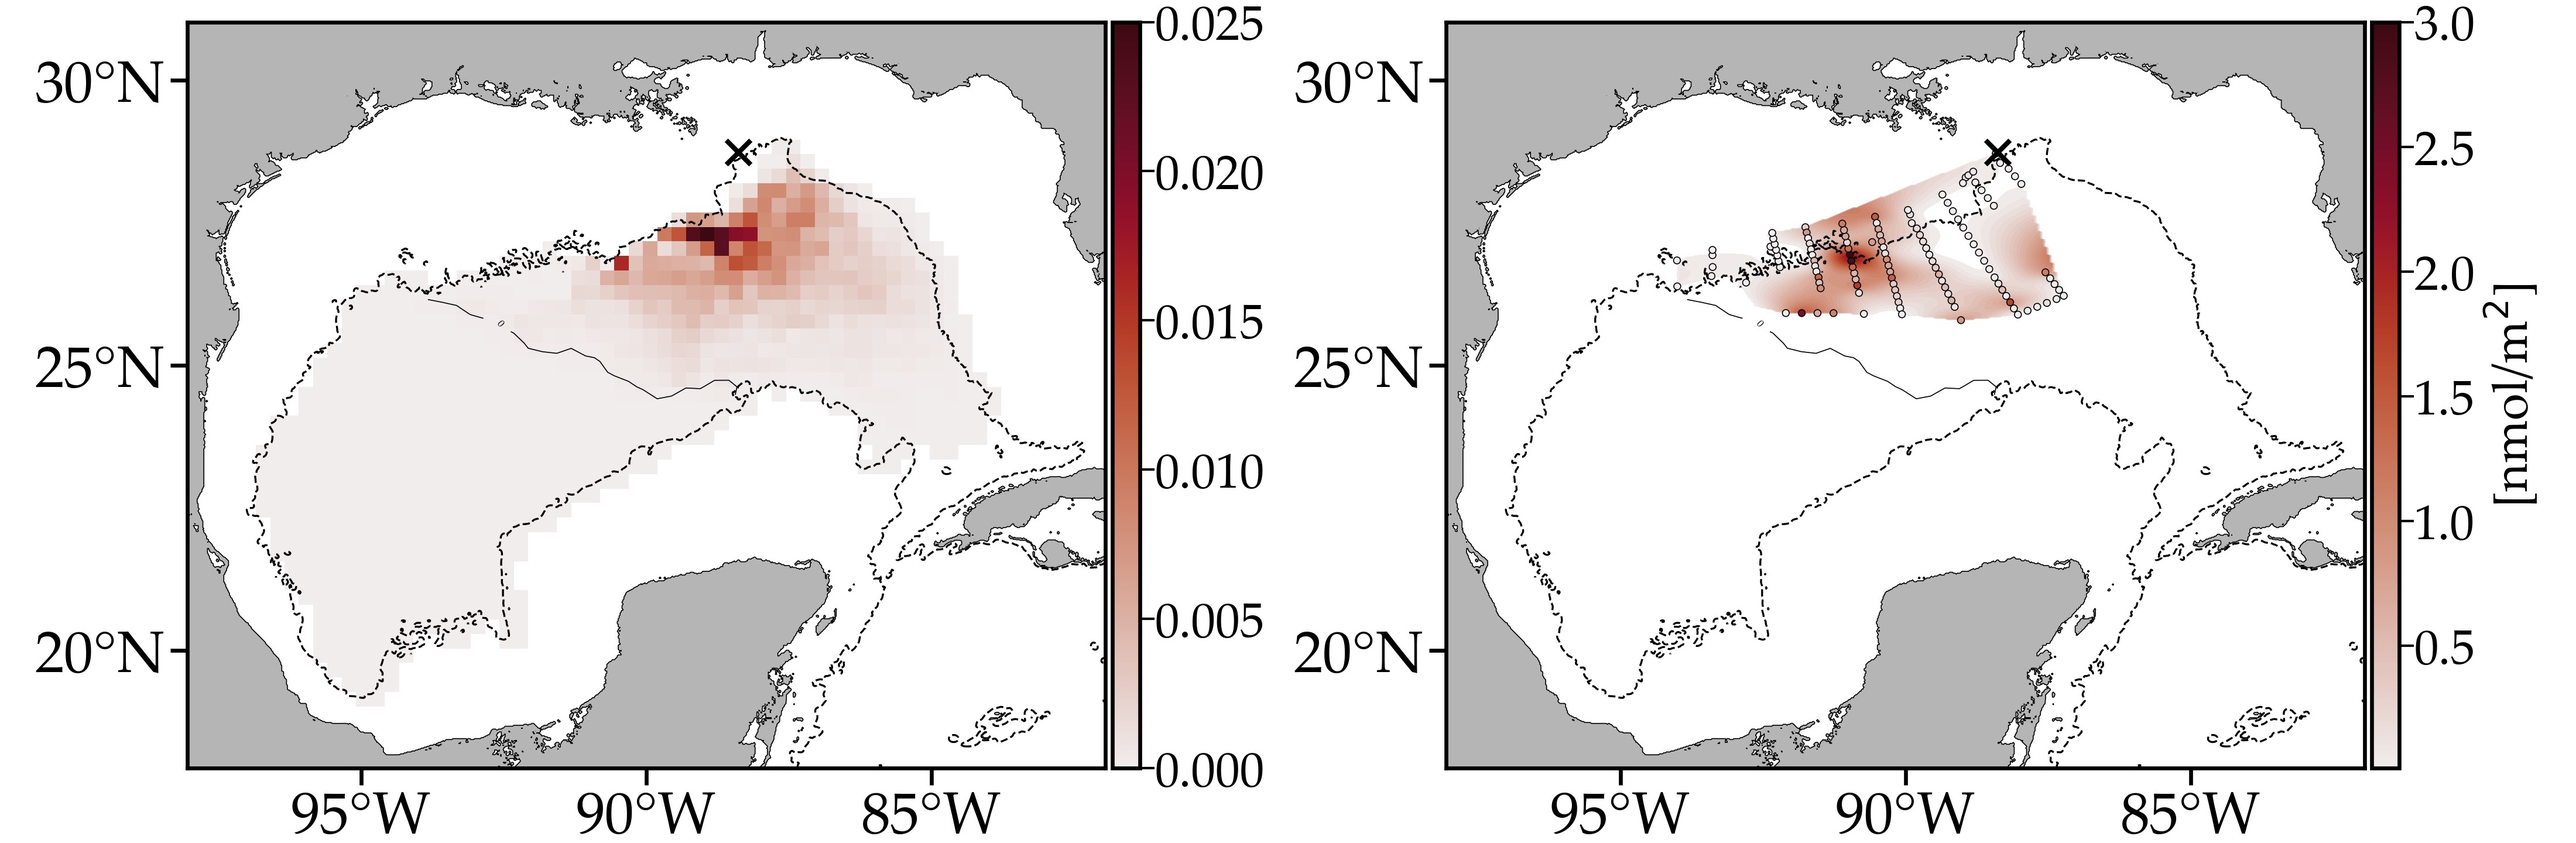
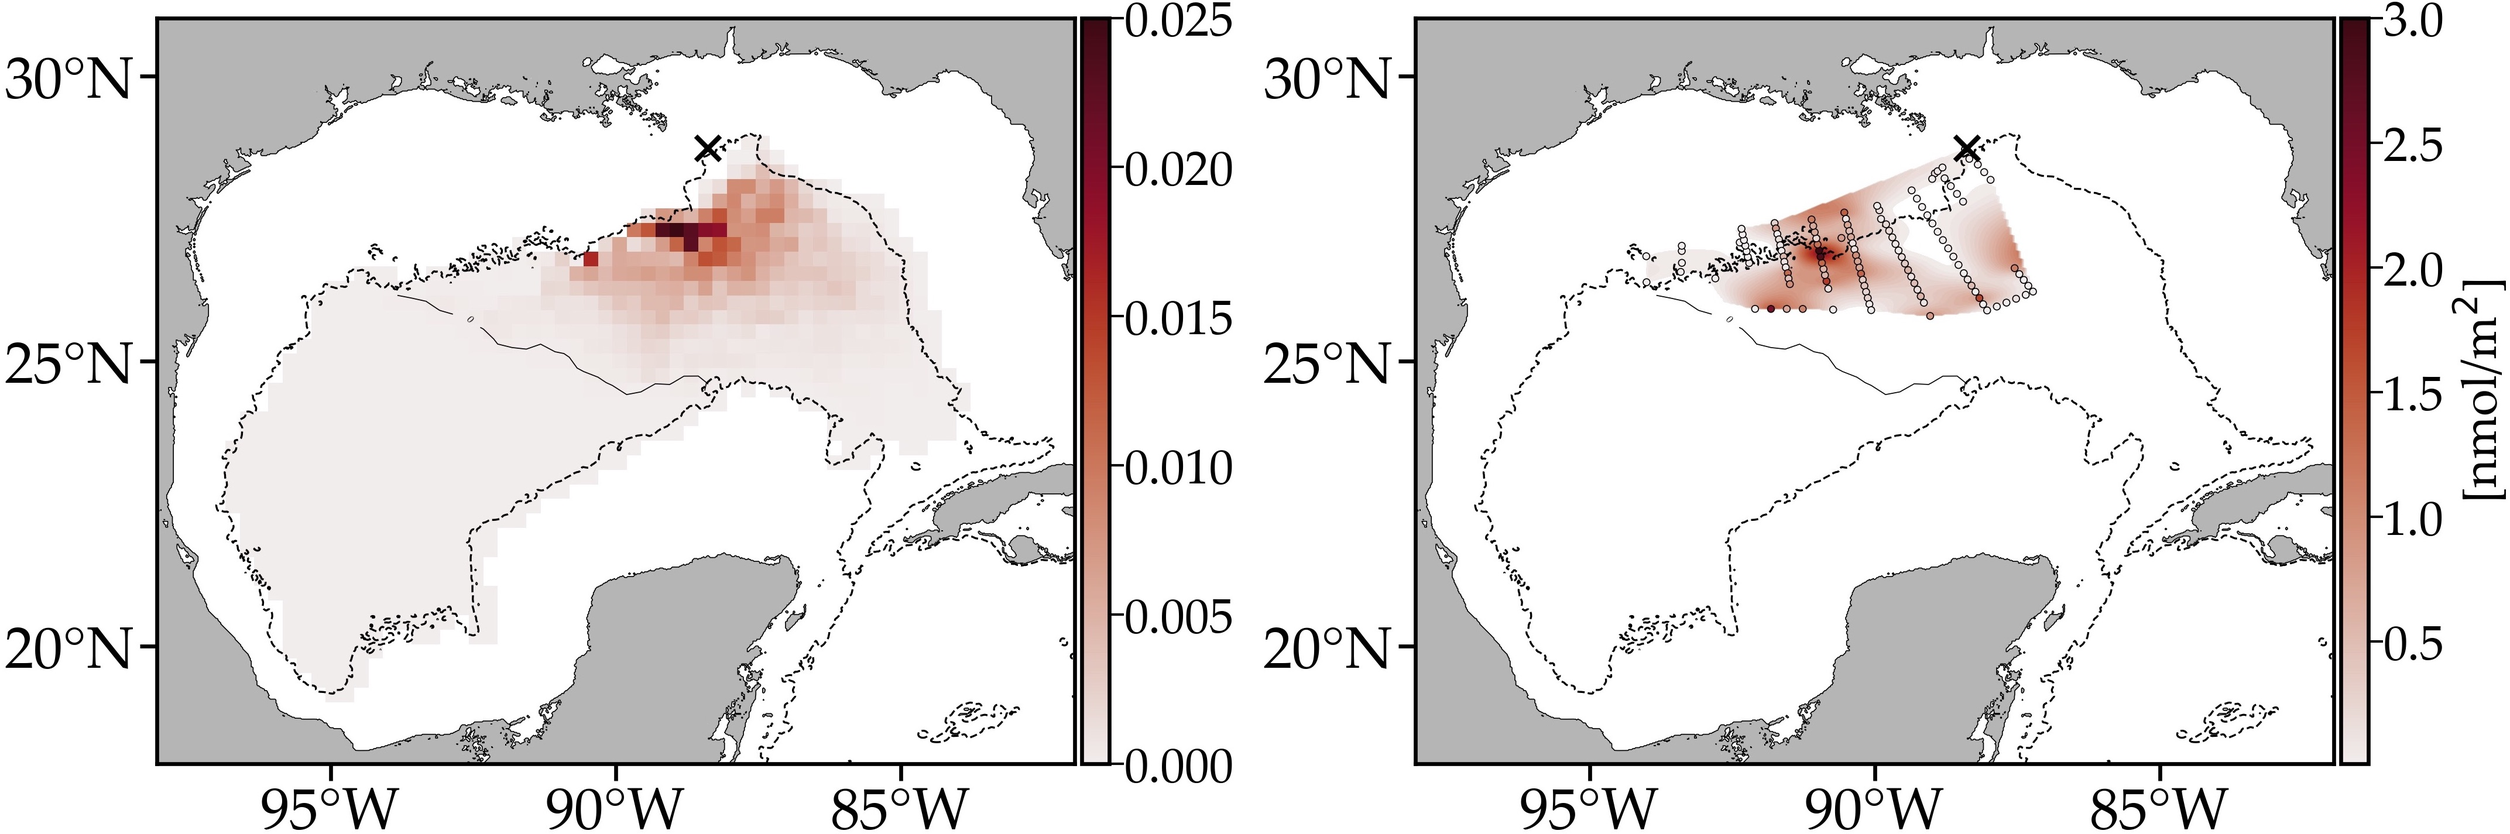
will this be finish at one point ? ¯\_(ツ)_/¯

diff --git a/2018. Deep floats (AGU)/main.tex b/2018. Deep floats (AGU)/main.tex
@@ -207,40 +207,36 @@ Using floats data (trajectories) in the abyssal Gulf of Mexico (\gom):
 }
 
 \frame{\frametitle{Theory: transfer operator $\mathcal{P}$}
-We want to predict at a time $T$ the dispersion of a an initial density $\rho(x,0) = f(x)$.
-\newline\newline
-This is given by the push forward of f(x),
+We want to predict at a time $T$ the dispersion of a initial density $\rho(x,0) = f(x)$.
+\begin{itemize}
+    \item using data from float trajectories;
+    \item not using directly a advection-diffusion equation;
+    \item model by a stochastic kernel $k$ that gives probability to move from one part of the domain to the other;
+    \item not model as function of initial time.
+\end{itemize}
+
 \begin{equation}
-    \rho(x,T) = \int_X f(y) k(x,y) \dif y = \mathcal{P}\,f(x)
+     \mathcal{P}\,f(x) = \int_X k(x,y) f(y) \dif y = \rho(x,T),
 \end{equation}
-under the action of an advection-diffusion process that can be described via a bounded stochastic kernel $k$.
-
 }
 
-\note{Note that it is independant of initial T}
+\frame{\frametitle{Theory: how to construct the transition matrix}
 
-\frame{\frametitle{Theory: transfer operator $\mathcal{P}$}
-
-\textcolor{red}{clean this}
-A discretization of the transfer operator can be attained using a Galerkin approximation referred to as Ulam's method\cite{ulam1960}. This involves partitioning the domain $X$ into a grid of $N$ connected boxes $\{B_1,\dotsc,B_N\}$ and projecting functions in $L^1(X)$ onto a finite-dimensional space approximating $L^1(X)$ and spanned by indicator functions on the grid.
-
-We assume from now on that the grid is regular, i.e., $\area(B_i)
-= \area(B_j)$ for all $i\neq j$.
+\begin{itemize}
+    \item A discretization of the transfer operator can be attained using a Galerkin approximation
+    \item partitioning the domain $X$ into a grid of $N$ regular connected boxes $\{B_1,\dotsc,B_N\}$
+    \item projecting functions in $L^1(X)$ onto a finite-dimensional space approximating $L^1(X)$ and spanned by indicator functions on the grid.
+\end{itemize}
 }
-
-
-
-
 
 \frame{\frametitle{Theory: how to construct the transition matrix}  
 
-By considering a sufficiently large number of initial conditions we can estimate the entries:
+With large number of initial conditions we can estimate the entries:
 \begin{equation}
-   P_{ij} = \frac{\# x \text{ in }B_i\text{ at any time } t \text{ and in }B_j \text{ at  } t+T}{\#x\text{ in }B_i \text{ at any time }t}.
+   P_{ij} = \frac{\# x \text{ in }B_i\text{ at any time } t \text{ and in }B_j \text{ at  } t+T}{\#x\text{ in }B_i \text{ at any time }t},
   \label{eq:Pnum}
 \end{equation}
-
-The entries of $P$ can be viewed as transitional probabilities of moving from $B_i$ to $B_j$. It defines a \textbf{Markov Chain} (with bins $\equiv$ states) of the dynamics.
+which can be viewed as transitional probabilities of moving from $B_i$ to $B_j$. It defines a \textbf{Markov Chain} (with bins $\equiv$ states) of the dynamics.
 }
 
 \frame{\frametitle{Application of the transition matrix}
@@ -291,9 +287,18 @@ This motivates the idea that regions where trajectories converge and their basin
 
 \frame{\frametitle{Data}
 Trajectories of the RAFOS cover the area under 1500\,m of the Gulf of Mexico.
+
+\only<1>{
 \begin{figure}
   \includegraphics[width=\textwidth]{geogomdeep-fig01.jpg}
 \end{figure}
+}
+
+\only<2>{
+\begin{figure}
+  \includegraphics[width=\textwidth]{geogomdeep-fig02-1.png}
+\end{figure}
+}
 }
 
 \section{Results}
@@ -326,53 +331,56 @@ Combination of the basins of attraction from the top right eigenvectors (by thre
 \begin{figure}
   \includegraphics[width=\textwidth]{geogomdeep-fig09.jpg}
 \end{figure}
-
-Residence timescale: 7-y left (black) and right (purple), 1-y middle (pink), 0.5-y gyre (yellow) and bottom right (orange)
 }
 
-\frame{\frametitle{Residence time}
-\begin{figure}
-  \includegraphics[width=\textwidth]{geogomdeep-fig09.jpg}
-\end{figure}
-}
-
-
-\frame{\frametitle{Connectivity matrix (1, 2, 4 weeks)}
+\frame{
 \begin{figure}
   \only<1>{
+  \frametitle{Connectivity matrix (1 week)}
   \includegraphics[width=0.9\textwidth]{1wconnection.png}
   }
   \only<2>{
+  \frametitle{Connectivity matrix (2 weeks)}
   \includegraphics[width=0.9\textwidth]{2wconnection.png}
   }
   \only<3>{
+  \frametitle{Connectivity matrix (4 weeks)}
   \includegraphics[width=0.9\textwidth]{4wconnection.png}
   }
 \end{figure}
 }
 
-\frame{\frametitle{Mean expected hitting time}
+
+\frame{\frametitle{Residence time}
 The time $\tau$ for a trajectory in box $B_i$ to move out of $A$, also known also as the mean time to hit the complement of $A$ \citep{Norris-98}.
 \begin{equation} 
   (\Id - P|_A)\tau/T = \mathbf{1},
   \label{eq:tau}
-\end{equation} 
+\end{equation}
+The time it takes on average to reach a given province
+starting from any province can be computed using \ref{eq:tau} with $A$ set to the target province.
 \begin{figure}
-    \includegraphics[width=0.7\textwidth]{hitting_time.png}
+  \includegraphics[width=\textwidth]{geogomdeep-figtau.jpg}
+\end{figure}
+}
+
+
+\frame{\frametitle{Mean expected hitting time}
+ 
+\begin{figure}
+    \includegraphics[width=0.9\textwidth]{hitting_time.png}
 \end{figure}
 }
 
 \frame{\frametitle{Upwelling and Downwelling}
-From incompressibility, accumulation can be used to approximate vertical velocity $w$:
+From incompressibility, accumulation can be used to approximate vertical velocity:
 \begin{equation}
-    h_{t_1} = h_{t_0} \frac{\area_{t_0}}{\area_{t_1}} \quad w \sim \frac{h_{t_1} - h_{t_0}}{dt}. 
+    a_i^{(k)} = \sum_j^N a_j (P^k)_{ji} \quad H_i^{(k)} = H \frac{a_i}{a_i^{(k)}} \quad w \sim \frac{H_i^{(k)} - H}{k T}
 \end{equation}
 
 \begin{figure}
   \includegraphics[width=8.5cm]{geogomdeep-fig05.jpg}
 \end{figure}
-
-The vertical component is about $\sim 1\%$ of the maximum horizontal velocity ($u_{max} = 0.2739$m/s, $v_{max} = 0.1790$m/s).
 }
 
 \frame{\frametitle{Comparison with experimental data \citep{ledwell2016dispersion}}
@@ -380,51 +388,41 @@ The vertical component is about $\sim 1\%$ of the maximum horizontal velocity ($
 \only<1>{
 Tracer evolution from the infamous Deepwater Horizon oil spill.
 \begin{figure}
-  \includegraphics[width=\textwidth]{geogomdeep-fig11.jpg}
-  \caption{Evolution after 4 months}
+  \includegraphics[width=0.9\textwidth]{geogomdeep-fig11-0m.png}
 \end{figure}
 }
 
 \only<2>{
 \begin{figure}
-  \includegraphics[width=\textwidth]{geogomdeep-fig11b.jpg}
+  \includegraphics[width=1.08\textwidth]{geogomdeep-fig11.jpg}
+  \caption{Evolution after 4 months}
+\end{figure}
+}
+
+\only<3>{
+\begin{figure}
+  \centering
+  \includegraphics[width=1.08\textwidth]{geogomdeep-fig11b.jpg}
   \caption{Evolution after 12 months}
 \end{figure}
 }
 }
 
 \frame{\frametitle{Argo floats}
- 
-\only<1>{
-
-Talk about the entrance ?! No floats exit ?
-\begin{figure}
-  \includegraphics[width=10cm]{geogomdeep-fig13.jpg}
-\end{figure}
-}
-
-\only<2>{
+Even with a 10-d cycle of the Argo floats, the main separation is well highlighed.
 \begin{figure}
   \includegraphics[width=\textwidth]{geogomdeep-fig12.jpg}
-  \caption{Argo floats}
 \end{figure}
 }
-
-
-}
-
-
 
 \section{Conclusion}
 \frame{\frametitle{Thank you!}
 
-Also a special thanks to Julio Paula Pérez Brunius
-
 Paper will be submit this week (we are hoping) !
-
+\newline\newline
 Future plans:
 \begin{itemize}
-	\item Evaluation of global circulation from surface drifters and deep water floats
+	\item Evaluation of global circulation from surface drifters and deep water floats (RAFOS, SOFAR \& ARGO)
 \end{itemize}
 
 Any questions?
